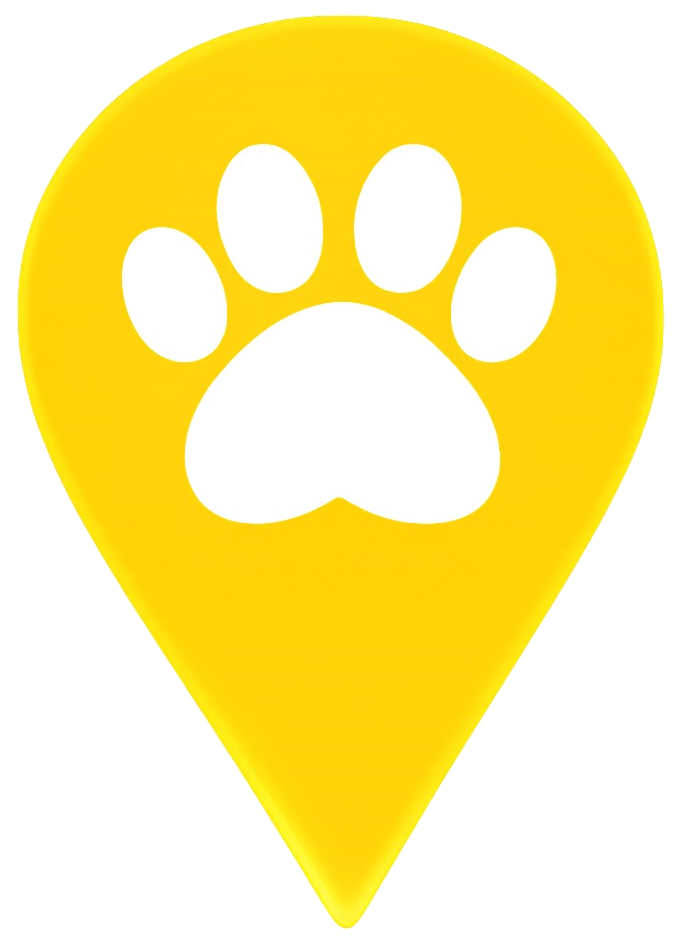
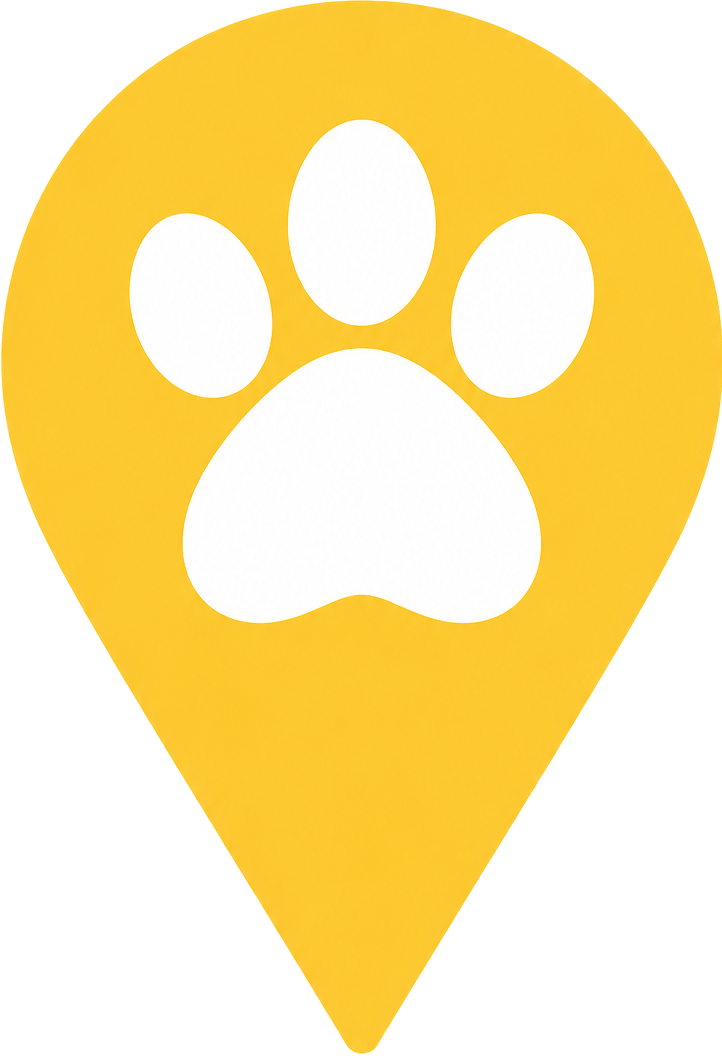
fix/register-lost-pet (#45)

diff --git a/frontend/src/features/map/hooks/useGeolocation.ts b/frontend/src/features/map/hooks/useGeolocation.ts
@@ -1,0 +1,42 @@
+import { useState } from 'react';
+import { LeafletMapService } from '@features/map/services/leafletMapService';
+
+export const useGeolocation = () => {
+  const [isLocating, setIsLocating] = useState(false);
+
+  const goToMyLocation = () => {
+    if (!('geolocation' in navigator)) {
+      alert('Tu navegador no soporta la geolocalización.');
+      return;
+    }
+
+    setIsLocating(true);
+
+    navigator.geolocation.getCurrentPosition(
+      (position) => {
+        const coords: [number, number] = [
+          position.coords.latitude,
+          position.coords.longitude,
+        ];
+
+        LeafletMapService.flyTo(coords);
+        LeafletMapService.placeMarker(coords);
+
+        setIsLocating(false);
+      },
+      (error) => {
+        console.error('Error obteniendo la ubicación:', error);
+        alert(
+          'No pudimos acceder a tu ubicación. Por favor, verifica los permisos de tu navegador.',
+        );
+        setIsLocating(false);
+      },
+      { enableHighAccuracy: true },
+    );
+  };
+
+  return {
+    isLocating,
+    goToMyLocation,
+  };
+};

diff --git a/frontend/src/shared/components/ui/MapDisplay/MapDisplay.tsx b/frontend/src/shared/components/ui/MapDisplay/MapDisplay.tsx
@@ -4,17 +4,54 @@ import 'leaflet/dist/leaflet.css';
 interface MapDisplayProps {
   mapID: string;
   heightClass?: string;
+  isLocating?: boolean;
+  onGoToMyLocation?: () => void;
 }
 
 export const MapDisplay: React.FC<MapDisplayProps> = ({
   mapID,
   heightClass = 'h-[400px] sm:h-[450px]',
+  isLocating = false,
+  onGoToMyLocation,
 }) => {
   return (
     <div
       className={`w-full ${heightClass} rounded-xl border border-gray-300 overflow-hidden relative z-0`}
     >
       <div id={mapID} className="w-full h-full" />
+
+      {onGoToMyLocation && (
+        <button
+          type="button"
+          onClick={onGoToMyLocation}
+          disabled={isLocating}
+          title="Ir a mi ubicación actual"
+          className="absolute bottom-4 right-4 z-[400] flex items-center justify-center w-10 h-10 bg-white/90 backdrop-blur-sm border border-gray-200 rounded-lg shadow-sm hover:shadow-md hover:bg-white hover:text-yellow-600 hover:-translate-y-0.5 active:translate-y-0 focus:outline-none focus:ring-2 focus:ring-yellow-500 disabled:opacity-70 disabled:hover:translate-y-0 transition-all duration-200 cursor-pointer text-gray-600"
+        >
+          {isLocating ? (
+            <span className="flex h-3.5 w-3.5 relative">
+              <span className="animate-ping absolute inline-flex h-full w-full rounded-full bg-yellow-400 opacity-75" />
+              <span className="relative inline-flex rounded-full h-3.5 w-3.5 bg-yellow-500" />
+            </span>
+          ) : (
+            <svg
+              xmlns="http://www.w3.org/2000/svg"
+              width="18"
+              height="18"
+              viewBox="0 0 24 24"
+              fill="none"
+              stroke="currentColor"
+              strokeWidth="2.5"
+              strokeLinecap="round"
+              strokeLinejoin="round"
+            >
+              <path d="M12 2v2M12 20v2M2 12h2M20 12h2" />
+              <circle cx="12" cy="12" r="7" />
+              <circle cx="12" cy="12" r="3" />
+            </svg>
+          )}
+        </button>
+      )}
     </div>
   );
 };

diff --git a/frontend/src/features/map/services/leafletMapService.ts b/frontend/src/features/map/services/leafletMapService.ts
@@ -147,19 +147,4 @@ export const LeafletMapService = {
       (container as HTMLElement & { _leaflet_id?: null })._leaflet_id = null;
     }
   },
-
-  /**
-   * Destroy the actual instance of the map and clears the memory
-   * @param mapID ID of the HTML container.
-   */
-  destroyMap(mapID: string) {
-    if (map) {
-      map.remove();
-      map = null;
-    }
-    const container = L.DomUtil.get(mapID);
-    if (container) {
-      (container as HTMLElement & { _leaflet_id?: null })._leaflet_id = null;
-    }
-  },
 };

diff --git a/frontend/src/pages/ReportConfirmation.tsx b/frontend/src/pages/ReportConfirmation.tsx
@@ -124,27 +124,27 @@ export const ReportConfirmationPage: React.FC = () => {
                   transform: 'rotate(-30deg)',
                 }}
               /> */}
-              <img
+              {/* <img
                 src={whiteLogoSimple}
                 alt="Watermark Logo"
                 className="absolute top-1/2 left-1/2 -translate-x-1/2 -translate-y-1/2 w-40 opacity-40 pointer-events-none"
-              />
+              /> */}
               {/* <div className="absolute inset-0 flex items-center justify-center pointer-events-none">
                 <span className="text-5xl font-bold text-black/20 text-center mt-20">
                   Esta es una vista previa
                 </span>
               </div> */}
-              {/* <div className="absolute bg-white/20 backdrop-blur-[2px] rounded-xl w-full p-4 bottom-0 h-1/2"></div> */}
-              {/* <div className="absolute inset-0 flex flex-col items-center justify-center pointer-events-none">
+              <div className="absolute bg-white/20 backdrop-blur-[2px] w-full p-4 bottom-0 h-1/2" />
+              <div className="absolute inset-0 flex flex-col items-center justify-center pointer-events-none">
                 <img
                   src={whiteLogoSimple}
                   alt="Watermark Logo"
-                  className=" w-30 opacity-40 pointer-events-none"
+                  className=" w-30 opacity-50 pointer-events-none"
                 />
-                <span className="text-4xl font-bold text-black/20 text-center">
+                <span className="text-4xl font-bold text-black/25 text-center">
                   Esta es una vista previa
                 </span>
-              </div> */}
+              </div>
             </div>
           </div>
 

diff --git a/frontend/src/features/users/components/PetLocationSection.tsx b/frontend/src/features/users/components/PetLocationSection.tsx
@@ -1,5 +1,7 @@
 import { LocationSearchInput } from '../../../shared/components/ui/LocationSearchInput/LocationSearchInput';
 import { MapDisplay } from '../../../shared/components/ui/MapDisplay/MapDisplay';
+import { useGeolocation } from '@features/map/hooks/useGeolocation';
+import { Text } from '@/shared/components/ui/Text';
 import type {
   LostPetReportData,
   ReportType,
@@ -26,6 +28,7 @@ export const PetLocationSection = ({
   const inputLabel =
     reportType === 'lost' ? 'Lugar de extravío' : 'Lugar de encuentro';
   const placeholderText = 'Ej: Parque Central, Centro Histórico';
+  const { isLocating, goToMyLocation } = useGeolocation();
 
   const {
     results,
@@ -62,7 +65,14 @@ export const PetLocationSection = ({
         error={errors.address}
       />
 
-      <MapDisplay mapID={mapID} />
+      <MapDisplay
+        mapID={mapID}
+        isLocating={isLocating}
+        onGoToMyLocation={goToMyLocation}
+      />
+      <Text variant="caption" weight="semibold" as="div">
+        ¡Puedes arrastrar la patita!
+      </Text>
     </section>
   );
 };

diff --git a/frontend/src/features/map/services/photonGeocodingService.ts b/frontend/src/features/map/services/photonGeocodingService.ts
@@ -12,7 +12,7 @@ export const PhotonGeocoding = {
 
   async search(query: string): Promise<GeocodingResult[]> {
     const res = await fetch(
-      `https://photon.komoot.io/api/?q=${encodeURIComponent(query)}&limit=5`,
+      `https://photon.komoot.io/api/?q=${encodeURIComponent(query)}&limit=5&lang=default`,
     );
 
     //Returns empty results if the network reuqest fails
@@ -43,7 +43,7 @@ export const PhotonGeocoding = {
     const [lat, lon] = coords;
 
     const res = await fetch(
-      `https://photon.komoot.io/reverse?lat=${lat}&lon=${lon}`,
+      `https://photon.komoot.io/reverse?lat=${lat}&lon=${lon}&lang=default`,
     );
 
     if (!res.ok) return null;

diff --git a/frontend/src/features/map/hooks/useGeocoding.tsx b/frontend/src/features/map/hooks/useGeocoding.tsx
@@ -3,7 +3,7 @@ import { LeafletMapService } from '../services/leafletMapService';
 import { PhotonGeocoding } from '@features/map/services/photonGeocodingService';
 import type { GeocodingResult } from '@features/map/types/geocodingResult';
 
-const DEFAULT_LOCATION_LABEL = 'Mexico City, Mexico';
+const DEFAULT_LOCATION_LABEL = 'Ciudad de México, México';
 
 type MarkerAddressPayload = {
   coords: [number, number];

diff --git a/frontend/src/features/users/hooks/usePetLocation.ts b/frontend/src/features/users/hooks/usePetLocation.ts
@@ -5,7 +5,7 @@ import { LeafletMapService } from '../../map/services/leafletMapService';
 import type { GeocodingResult } from '../../map/types/geocodingResult';
 import type { LostPetReportData } from '@/shared/types/petReport.types';
 
-const DEFAULT_LOCATION_LABEL = 'Mexico City, Mexico';
+const DEFAULT_LOCATION_LABEL = 'Ciudad de México, México';
 
 export const usePetLocation = (
   mapID: string,

diff --git a/frontend/src/features/users/components/UserInfoSection.tsx b/frontend/src/features/users/components/UserInfoSection.tsx
@@ -2,7 +2,6 @@ import { Input } from '@shared/components/ui/Input';
 import { Select } from '@shared/components/ui/Select';
 import { TextArea } from '@shared/components/ui/TextArea';
 import { DateInput } from '@shared/components/ui/DateInput';
-import { FileUpload } from '@shared/components/ui/FileUpload';
 import type {
   LostPetReportData,
   ReportType,